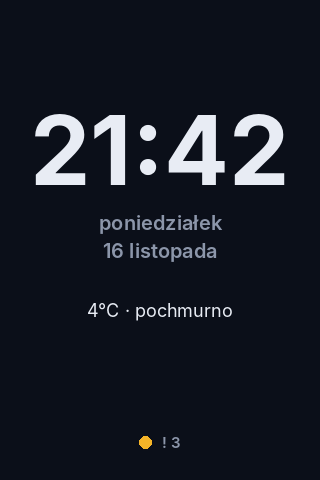
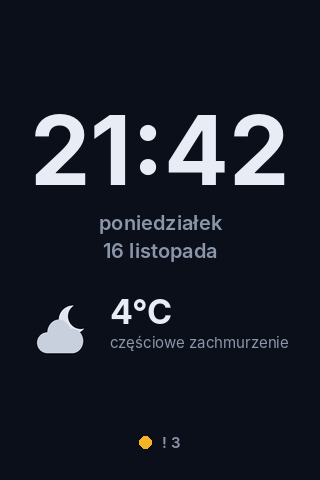
Makiety: ikony pogody na zegarze, ekran speedtestu z historią 72 h
Claude-Session: https://claude.ai/code/session_01KdmNeRTRFZRJ18TRbeokR1

Changed region(s): [[0.2812, 0.625, 0.7188, 0.75], [0.5938, 0.6875, 0.9062, 0.75], [0.0938, 0.625, 0.2812, 0.75]]

diff --git a/app/ekrany/dodatkowe.py b/app/ekrany/dodatkowe.py
@@ -6,6 +6,7 @@ from __future__ import annotations
 
 from PIL import Image, ImageDraw
 
+from .pogoda import OPISY, ikona, rodzaj_pogody
 from .rysuj import (H, KOLORY, M, W, font, karta, kolor_progu, liczba, naglowek, obramowanie,
                     problemy_na_gorze)
 
@@ -20,7 +21,9 @@ TEKSTY = {
            "do_aktualizacji": "do aktualizacji", "kopia": "Kopia appdata", "parity": "Kontrola parity",
            "restart": "Ostatni restart", "temu": "temu", "bledow": "błędów",
            "wszystko_ok": "Wszystko w porządku", "zeskanuj": "Zeskanuj telefonem, żeby otworzyć panel",
-           "tylko_lan": "działa tylko w sieci domowej", "pogoda": "pochmurno"},
+           "tylko_lan": "działa tylko w sieci domowej",
+           "speedtest": "SPEEDTEST", "ostatni": "Ostatni test", "co": "co", "ping": "Ping",
+           "h72": "Ostatnie 72 h", "teraz": "teraz", "nastepny": "Następny test"},
     "en": {"ruch_dyskow": "DISK ACTIVITY", "historia": "LAST 24 H", "siec_t": "NETWORK", "aktualizacje": "UPDATES",
            "zegar": "", "qr": "PANEL", "odczyt": "read", "zapis": "write", "uspiony": "spun down",
            "razem": "Total", "min": "min", "maks": "max", "sr": "avg", "temp_cpu": "CPU temp.",
@@ -31,7 +34,9 @@ TEKSTY = {
            "do_aktualizacji": "to update", "kopia": "Appdata backup", "parity": "Parity check",
            "restart": "Last restart", "temu": "ago", "bledow": "errors",
            "wszystko_ok": "All good", "zeskanuj": "Scan with your phone to open the panel",
-           "tylko_lan": "works on your home network only", "pogoda": "cloudy"},
+           "tylko_lan": "works on your home network only",
+           "speedtest": "SPEEDTEST", "ostatni": "Last test", "co": "every", "ping": "Ping",
+           "h72": "Last 72 h", "teraz": "now", "nastepny": "Next test"},
 }
 
 DNI = {"pl": ["poniedziałek", "wtorek", "środa", "czwartek", "piątek", "sobota", "niedziela"],
@@ -42,7 +47,7 @@ MIESIACE = {"pl": ["stycznia", "lutego", "marca", "kwietnia", "maja", "czerwca",
                    "September", "October", "November", "December"]}
 
 # Indeksy nowych ekranów w kolejce (po pięciu podstawowych).
-INDEKS = {"ruch": 5, "historia": 6, "siec": 7, "aktualizacje": 8, "zegar": 9, "qr": 10}
+INDEKS = {"ruch": 5, "historia": 6, "siec": 7, "speedtest": 8, "aktualizacje": 9, "zegar": 10, "qr": 11}
 
 
 def _wykres(d, x0, y0, szer, wys, wartosci, kolor, maks=None, wypelnienie=True):
@@ -141,6 +146,47 @@ def ekran_siec(t, dane):
     return obramowanie(img, dane)
 
 
+def ekran_speedtest(t, dane):
+    """Okresowy pomiar prędkości łącza z historią z 72 h (pomiar co kilka godzin, domyślnie wyłączony)."""
+    img = Image.new("RGB", (W, H), KOLORY["tlo"]); d = ImageDraw.Draw(img)
+    naglowek(d, t["speedtest"], INDEKS["speedtest"], dane)
+    s = dane["speedtest"]
+    j = t["_j"]
+    # ostatni wynik
+    karta(d, M, 54, W - 2 * M, 112)
+    d.text((M + 12, 64), t["pobieranie"], font=font(13), fill=KOLORY["szary"])
+    d.text((M + 12, 82), f"↓ {s['pobieranie'][-1]:.0f}", font=font(30, "Bold"), fill=KOLORY["ok"])
+    d.text((W - M - 12, 64), t["wysylanie"], font=font(13), fill=KOLORY["szary"], anchor="ra")
+    d.text((W - M - 12, 82), f"↑ {s['wysylanie'][-1]:.0f}", font=font(30, "Bold"), fill=KOLORY["akcent"], anchor="ra")
+    d.text((M + 12, 120), "Mb/s", font=font(13), fill=KOLORY["szary"])
+    d.text((W - M - 12, 120), "Mb/s", font=font(13), fill=KOLORY["szary"], anchor="ra")
+    d.text((W // 2, 98), f"{s['ping'][-1]:.0f} ms", font=font(17, "SemiBold"), fill=KOLORY["tekst"], anchor="mm")
+    d.text((W // 2, 120), t["ping"], font=font(13), fill=KOLORY["szary"], anchor="mt")
+    d.line((M + 12, 142, W - M - 12, 142), fill=KOLORY["linia"])
+    d.text((M + 12, 152), f"{t['ostatni']} {s['ostatni']}", font=font(12), fill=KOLORY["szary"], anchor="lm")
+    d.text((W - M - 12, 152), f"{t['co']} {s['co_h']} h", font=font(12), fill=KOLORY["szary"], anchor="rm")
+    # historia 72 h
+    y0 = 178
+    karta(d, M, y0, W - 2 * M, 206)
+    d.text((M + 12, y0 + 10), t["h72"], font=font(13, "SemiBold"), fill=KOLORY["tekst"])
+    x0, szer, wys, yw = M + 12, W - 2 * M - 24, 104, y0 + 38
+    for i in range(1, 3):  # granice dób
+        x = x0 + szer * i / 3
+        for yy in range(yw, yw + wys, 6):
+            d.line((x, yy, x, yy + 2), fill=KOLORY["linia"])
+    maks = max(s["pobieranie"]) * 1.1
+    _wykres(d, x0, yw, szer, wys, s["pobieranie"], KOLORY["ok"], maks)
+    _wykres(d, x0, yw, szer, wys, s["wysylanie"], KOLORY["akcent"], maks, wypelnienie=False)
+    for i, etykieta in enumerate(("-72 h", "-48 h", "-24 h", t["teraz"])):
+        d.text((x0 + szer * i / 3, yw + wys + 8), etykieta, font=font(11), fill=KOLORY["szary"],
+               anchor="la" if i == 0 else "ra" if i == 3 else "ma")
+    p = s["pobieranie"]
+    d.text((M + 12, y0 + 194), f"↓ {t['min']} {min(p):.0f} · {t['sr']} {sum(p) / len(p):.0f} · {t['maks']} {max(p):.0f}",
+           font=font(12), fill=KOLORY["szary"], anchor="ls")
+    _wiersz_stanu(d, 400, t["nastepny"], s["nastepny"], "szary")
+    return obramowanie(img, dane)
+
+
 def ekran_aktualizacje(t, dane):
     img = Image.new("RGB", (W, H), KOLORY["tlo"]); d = ImageDraw.Draw(img)
     naglowek(d, t["aktualizacje"], INDEKS["aktualizacje"], dane)
@@ -171,7 +217,7 @@ def ekran_zegar(t, dane):
     d.text((W // 2, 222), DNI[t["_j"]][z["dzien_tyg"]], font=font(20, "SemiBold"), fill=KOLORY["szary"], anchor="mm")
     d.text((W // 2, 250), f"{z['dzien']} {MIESIACE[t['_j']][z['miesiac'] - 1]}", font=font(20, "SemiBold"), fill=KOLORY["szary"], anchor="mm")
     if z.get("pogoda") is not None:
-        d.text((W // 2, 310), f"{z['pogoda']}°C · {t['pogoda']}", font=font(18), fill=KOLORY["tekst"], anchor="mm")
+        _pogoda(img, d, t, z["pogoda"])
     krytyczne, ostrzezenia = (sum(1 for a in dane.get("alerty", []) if a[0] == p) for p in ("alarm", "uwaga"))
     if krytyczne:
         stan, tekst = "alarm", f"{krytyczne} {t['krytyczne'].lower()}"
@@ -184,6 +230,22 @@ def ekran_zegar(t, dane):
     d.ellipse((x, H - M - 26, x + 12, H - M - 14), fill=KOLORY[stan])
     d.text((x + 22, H - M - 20), tekst, font=font(15, "SemiBold"), fill=KOLORY["szary"], anchor="lm")
     return obramowanie(img, dane)
+
+
+def _pogoda(img, d, t, p):
+    """Ikona, temperatura i opis wyśrodkowane jako jedna grupa pod datą."""
+    rodzaj = rodzaj_pogody(p["kod"])
+    temp = f"{liczba(p['temp'], t['_j'], 0)}°C"
+    opis = OPISY[t["_j"]][rodzaj]
+    ft, fo = font(34, "Bold"), font(15)
+    szer_tekstu = max(d.textlength(temp, font=ft), d.textlength(opis, font=fo))
+    rozmiar, odstep = 64, 14
+    x = round(W / 2 - (rozmiar + odstep + szer_tekstu) / 2)
+    y = 330
+    img.paste(ikona(rodzaj, p.get("dzien", True), rozmiar, KOLORY["tlo"]), (x, y - rozmiar // 2))
+    xt = x + rozmiar + odstep
+    d.text((xt, y - 6), temp, font=ft, fill=KOLORY["tekst"], anchor="ls")
+    d.text((xt, y + 18), opis, font=fo, fill=KOLORY["szary"], anchor="ls")
 
 
 def ekran_qr(t, dane):
@@ -211,7 +273,7 @@ def ekran_qr(t, dane):
 
 
 PRZYKLADOWE = {
-    "ekrany_razem": 11,
+    "ekrany_razem": 12,
     "dyski_io": [("Parity", True, 0.0, 12.4, "ok"), ("Disk 1", True, 45.2, 12.4, "ok"), ("Disk 2", False, 0, 0, "ok"),
                  ("Disk 3", True, 0.8, 0.0, "uwaga"), ("Disk 4", False, 0, 0, "ok"), ("Cache", True, 3.1, 22.7, "ok")],
     "hist_cpu": [12, 10, 9, 8, 8, 9, 14, 22, 35, 28, 24, 20, 26, 31, 44, 38, 29, 25, 23, 27, 33, 29, 24, 23],
@@ -222,7 +284,12 @@ PRZYKLADOWE = {
              "hist_tx": [0.3, 0.2, 0.4, 0.5, 0.9, 1.4, 1.1, 0.8, 0.6, 0.5, 0.6, 0.7, 1.0, 0.9, 0.8], "tunel": True},
     "aktualizacje": {"wersja": "7.2.1", "unraid_nowa": None, "wtyczki": 2, "kontenery": 5,
                      "kopia": "wczoraj 03:00", "kopia_stan": "ok", "parity": "1 lis", "parity_bledy": 0, "restart": "12 dni"},
-    "zegar": {"godzina": "21:42", "dzien_tyg": 0, "dzien": 16, "miesiac": 11, "pogoda": 4},
+    "zegar": {"godzina": "21:42", "dzien_tyg": 0, "dzien": 16, "miesiac": 11,
+              "pogoda": {"temp": 4, "kod": 2, "dzien": False}},
+    "speedtest": {"pobieranie": [612, 598, 640, 655, 631, 420, 388, 512, 604, 622, 649, 660, 637, 590, 402, 377,
+                                 498, 611, 628, 652, 663, 641, 585, 604],
+                  "wysylanie": [48, 47, 49, 50, 49, 41, 36, 44, 48, 49, 50, 50, 49, 47, 40, 35, 43, 48, 49, 50, 50, 49, 47, 48],
+                  "ping": [12] * 23 + [11], "ostatni": "21:00", "co_h": 3, "nastepny": "00:00"},
     "adres_panelu": "http://tower.local:8766",
 }
 
@@ -235,5 +302,6 @@ def wszystkie(jezyk="pl", dane=None):
         dane["aktualizacje"] = dict(dane["aktualizacje"], kopia="yesterday 03:00", parity="Nov 1", restart="12 days")
     t = dict(TEKSTY_PODST[jezyk], **TEKSTY[jezyk], _j=jezyk)
     return {"6-ruch-dyskow": ekran_ruch_dyskow(t, dane), "7-historia": ekran_historia(t, dane),
-            "8-siec": ekran_siec(t, dane), "9-aktualizacje": ekran_aktualizacje(t, dane),
+            "8-siec": ekran_siec(t, dane), "8b-speedtest": ekran_speedtest(t, dane),
+            "9-aktualizacje": ekran_aktualizacje(t, dane),
             "10-zegar": ekran_zegar(t, dane), "11-qr": ekran_qr(t, dane)}

diff --git a/app/ekrany/pogoda.py b/app/ekrany/pogoda.py
@@ -1,0 +1,107 @@
+"""Ikony pogody rysowane w Pillow (bez plików graficznych) i opis według kodu WMO z Open-Meteo."""
+from __future__ import annotations
+
+from functools import lru_cache
+
+from PIL import Image, ImageDraw
+
+SLONCE, KSIEZYC = (255, 200, 60), (225, 230, 245)
+CHMURA, CHMURA_CIEMNA = (200, 208, 222), (120, 130, 150)
+DESZCZ, SNIEG, BLYSK = (90, 160, 255), (235, 240, 255), (255, 210, 60)
+
+OPISY = {
+    "pl": {"bezchmurnie": "bezchmurnie", "czesciowo": "częściowe zachmurzenie", "pochmurno": "pochmurno",
+           "mgla": "mgła", "mzawka": "mżawka", "deszcz": "deszcz", "snieg": "śnieg", "burza": "burza"},
+    "en": {"bezchmurnie": "clear", "czesciowo": "partly cloudy", "pochmurno": "cloudy",
+           "mgla": "fog", "mzawka": "drizzle", "deszcz": "rain", "snieg": "snow", "burza": "thunderstorm"},
+}
+
+
+def rodzaj_pogody(kod: int) -> str:
+    """Kod WMO (pole weather_code w Open-Meteo) na jeden z rodzajów z OPISY."""
+    if kod == 0:
+        return "bezchmurnie"
+    if kod in (1, 2):
+        return "czesciowo"
+    if kod == 3:
+        return "pochmurno"
+    if kod in (45, 48):
+        return "mgla"
+    if 51 <= kod <= 57:
+        return "mzawka"
+    if 61 <= kod <= 67 or 80 <= kod <= 82:
+        return "deszcz"
+    if 71 <= kod <= 77 or kod in (85, 86):
+        return "snieg"
+    if 95 <= kod <= 99:
+        return "burza"
+    return "pochmurno"
+
+
+def _slonce(d, cx, cy, r):
+    import math
+    for i in range(8):
+        a = i * math.pi / 4
+        d.line((cx + math.cos(a) * r * 1.35, cy + math.sin(a) * r * 1.35,
+                cx + math.cos(a) * r * 1.75, cy + math.sin(a) * r * 1.75), fill=SLONCE, width=max(2, int(r // 4)))
+    d.ellipse((cx - r, cy - r, cx + r, cy + r), fill=SLONCE)
+
+
+def _ksiezyc(d, cx, cy, r, tlo):
+    d.ellipse((cx - r, cy - r, cx + r, cy + r), fill=KSIEZYC)
+    d.ellipse((cx - r * 0.35, cy - r * 1.15, cx + r * 1.45, cy + r * 0.65), fill=tlo)
+
+
+def _chmura(d, x, y, s, kolor):
+    """Chmura o szerokości ok. 2*s, dolna krawędź na y."""
+    d.ellipse((x, y - s * 0.9, x + s * 0.9, y), fill=kolor)
+    d.ellipse((x + s * 0.45, y - s * 1.45, x + s * 1.45, y - s * 0.3), fill=kolor)
+    d.ellipse((x + s * 1.05, y - s * 1.05, x + s * 2.0, y), fill=kolor)
+    d.rectangle((x + s * 0.45, y - s * 0.6, x + s * 1.55, y), fill=kolor)
+
+
+@lru_cache(maxsize=32)
+def ikona(rodzaj: str, dzien: bool, rozmiar: int, tlo: tuple) -> Image.Image:
+    """Ikona rysowana w 4x większej skali i zmniejszana (gładkie krawędzie)."""
+    k = 4
+    n = rozmiar * k
+    img = Image.new("RGB", (n, n), tlo)
+    d = ImageDraw.Draw(img)
+    s = n * 0.36
+    if rodzaj == "bezchmurnie":
+        if dzien:
+            _slonce(d, n / 2, n / 2, n * 0.24)
+        else:
+            _ksiezyc(d, n / 2, n / 2, n * 0.32, tlo)
+    elif rodzaj == "czesciowo":
+        if dzien:
+            _slonce(d, n * 0.62, n * 0.36, n * 0.17)
+        else:
+            _ksiezyc(d, n * 0.64, n * 0.34, n * 0.22, tlo)
+        _chmura(d, n * 0.08, n * 0.86, s, CHMURA)
+    elif rodzaj == "mgla":
+        _chmura(d, n * 0.14, n * 0.6, s, CHMURA_CIEMNA)
+        for i, (a, b) in enumerate(((0.12, 0.88), (0.2, 0.8), (0.12, 0.72))):
+            y = n * (0.7 + i * 0.11)
+            d.line((n * a, y, n * b, y), fill=CHMURA, width=int(n // 18))
+    else:
+        burzowa = rodzaj == "burza"
+        gora = rodzaj != "pochmurno"
+        y_chm = n * (0.62 if gora else 0.78)
+        if not gora:
+            _chmura(d, n * 0.3, y_chm - n * 0.12, s * 0.8, CHMURA_CIEMNA)
+        _chmura(d, n * 0.14, y_chm, s, CHMURA_CIEMNA if burzowa else CHMURA)
+        if rodzaj in ("deszcz", "mzawka"):
+            ile, dl = (3, 0.2) if rodzaj == "deszcz" else (3, 0.09)
+            for i in range(ile):
+                x = n * (0.32 + i * 0.18)
+                d.line((x, n * 0.72, x - n * 0.06, n * (0.72 + dl)), fill=DESZCZ, width=int(n // 16))
+        elif rodzaj == "snieg":
+            for i in range(3):
+                x, y = n * (0.3 + i * 0.2), n * (0.8 if i % 2 else 0.75)
+                r = n * 0.045
+                d.ellipse((x - r, y - r, x + r, y + r), fill=SNIEG)
+        elif burzowa:
+            p = [(0.52, 0.64), (0.4, 0.82), (0.5, 0.82), (0.42, 0.98), (0.64, 0.76), (0.53, 0.76), (0.6, 0.64)]
+            d.polygon([(x * n, y * n) for x, y in p], fill=BLYSK)
+    return img.resize((rozmiar, rozmiar), Image.LANCZOS)

diff --git a/tools/makiety.py b/tools/makiety.py
@@ -28,3 +28,16 @@ if __name__ == "__main__":
         for i, obraz in enumerate(nowe.values()):
             zestawienie.paste(obraz, (20 + i * (W + 20), 20))
         zestawienie.save(WYJSCIE / f"lcd-{jezyk}-zestawienie-dodatkowe.png")
+        # Wszystkie ikony pogody (dzień i noc) z opisami, do oceny wyglądu.
+        from PIL import ImageDraw
+        from app.ekrany.pogoda import OPISY, ikona
+        from app.ekrany.rysuj import KOLORY, font
+        rodzaje = list(OPISY[jezyk])
+        arkusz = Image.new("RGB", (len(rodzaje) * 160 + 20, 260), KOLORY["tlo"])
+        d = ImageDraw.Draw(arkusz)
+        for i, rodzaj in enumerate(rodzaje):
+            x = 20 + i * 160
+            arkusz.paste(ikona(rodzaj, True, 64, KOLORY["tlo"]), (x + 38, 20))
+            arkusz.paste(ikona(rodzaj, False, 64, KOLORY["tlo"]), (x + 38, 110))
+            d.text((x + 70, 210), OPISY[jezyk][rodzaj], font=font(13), fill=KOLORY["szary"], anchor="ma")
+        arkusz.save(WYJSCIE / f"lcd-{jezyk}-pogoda-ikony.png")
